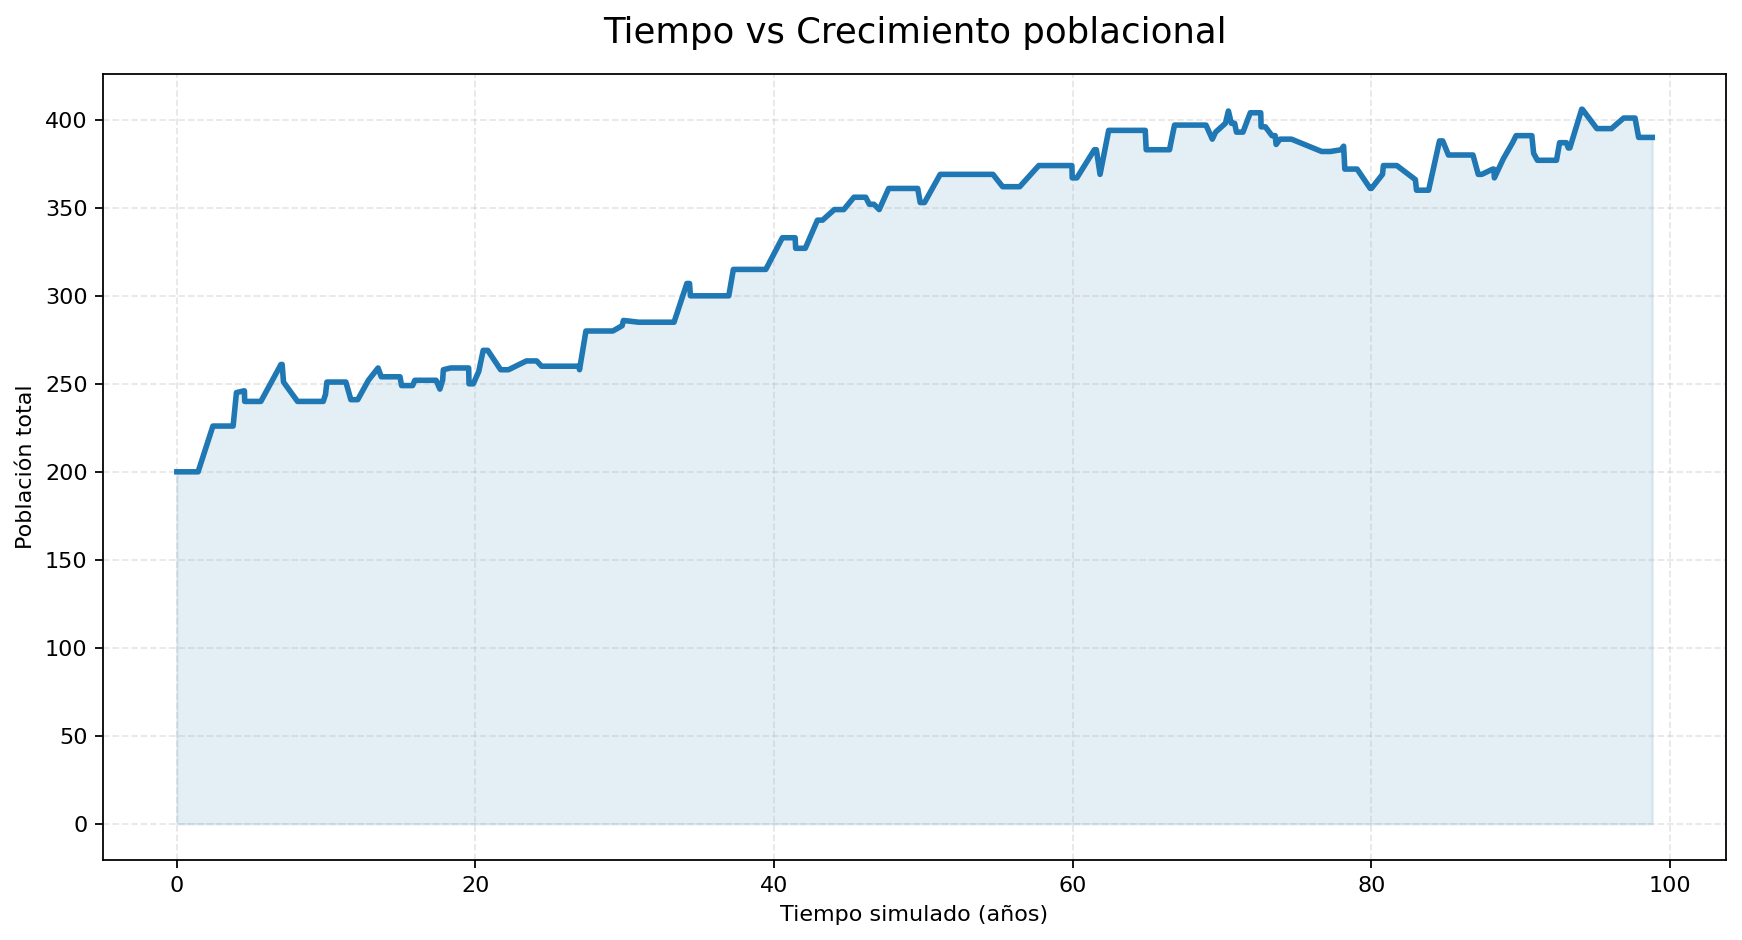
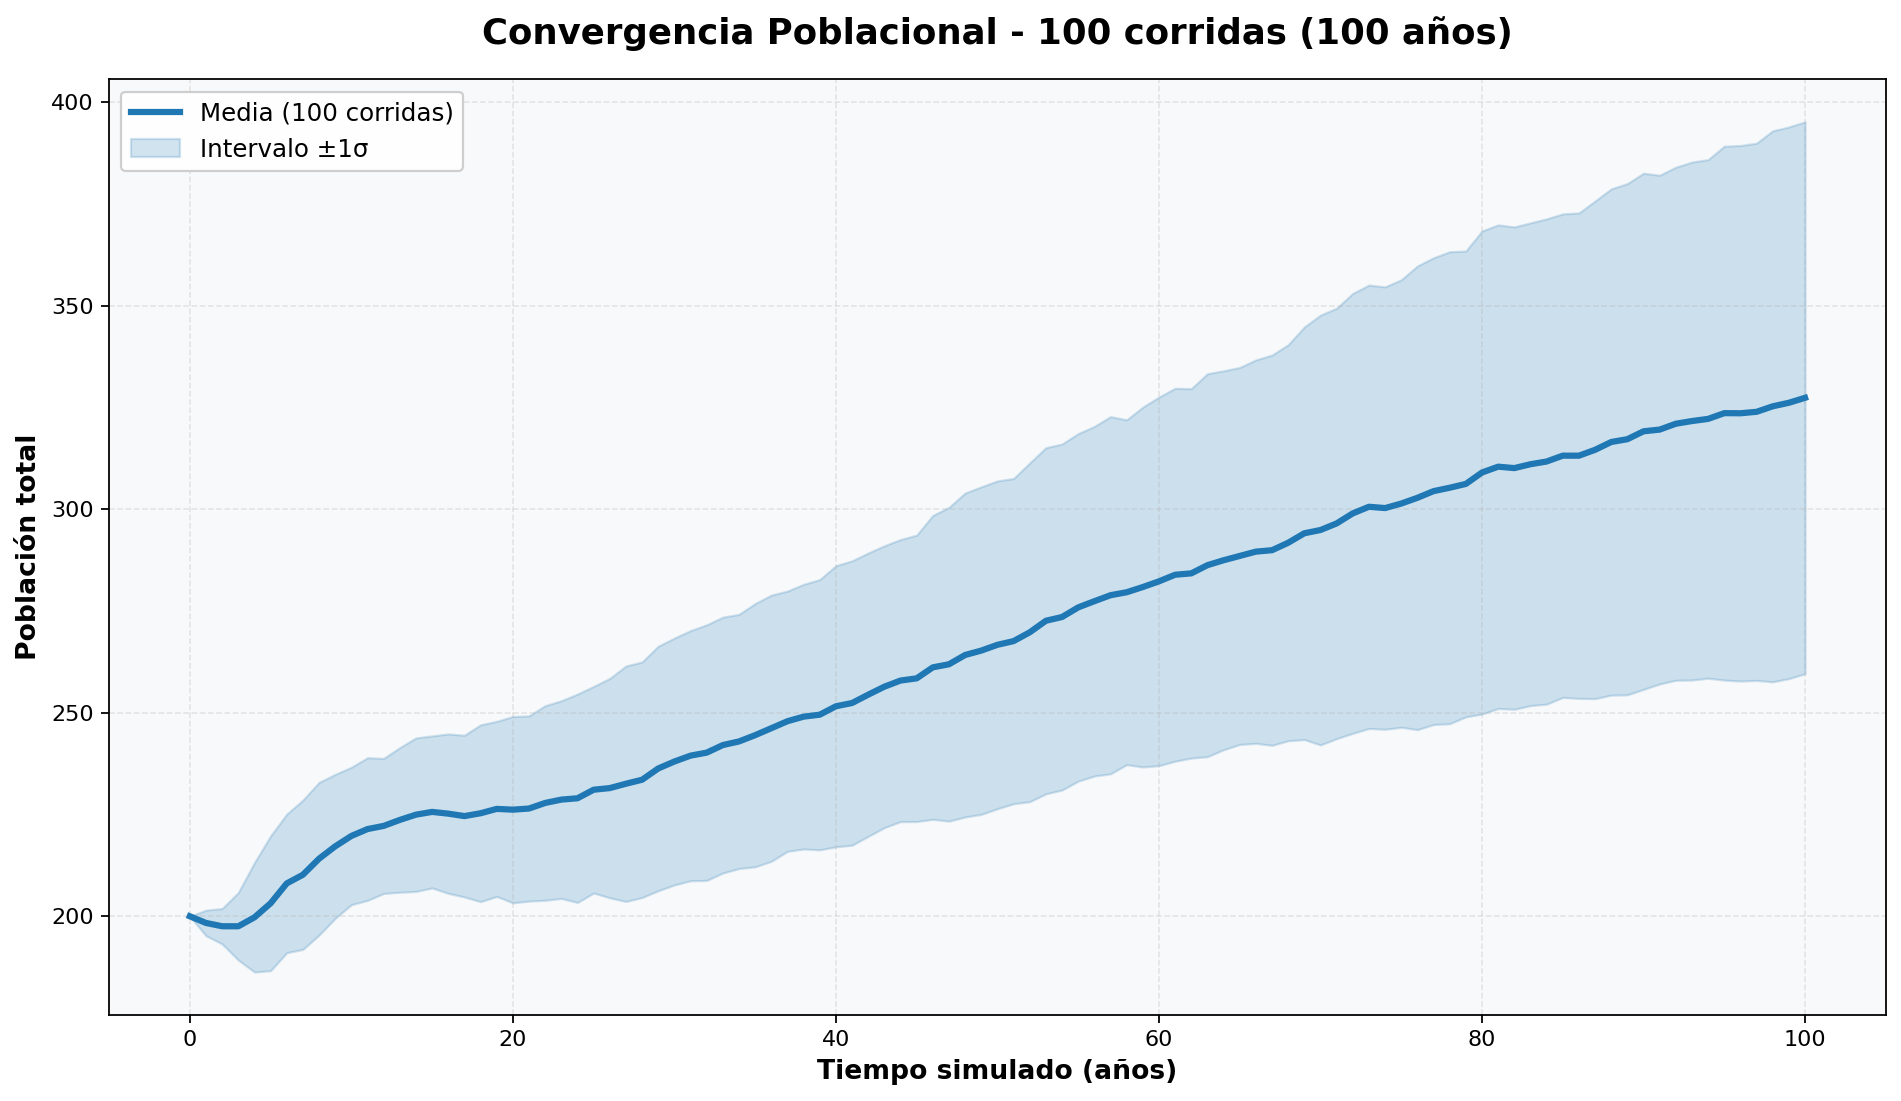
Enhance simulation functionality: add final population simulation method, update main function for chart generation, and improve output handling in statistics plotting.

diff --git a/scripts/statistics_plot.py b/scripts/statistics_plot.py
@@ -1,18 +1,30 @@
 """Generate a time vs population growth chart from the simulation."""
 
-from __future__ import annotations
-import argparse
-import sys
-from pathlib import Path
-import matplotlib.pyplot as plt
-
+from pathlib import Path  # filesystem paths
+import matplotlib.pyplot as plt  # chart rendering
+import statistics  # mean/stdev calculations
+from scripts.simulation import Simulador  # simulation engine
 
 ROOT_DIR = Path(__file__).resolve().parent.parent
-if str(ROOT_DIR) not in sys.path:
-    sys.path.insert(0, str(ROOT_DIR))
 
-from scripts.simulation import Simulador
+def resample_population(history: list[tuple[float, int]], years: int) -> tuple[list[int], list[int]]:
+    """Resample population history on a yearly grid using last-known values."""
+    # Build a yearly grid and carry forward the last known population.
+    timeline = list(range(0, years + 1))
+    if not history:
+        return timeline, [0] * len(timeline)
 
+    pops: list[int] = []
+    idx = 0
+    current_pop = history[0][1]
+    for year in timeline:
+        # Advance through history until we reach the current year.
+        while idx < len(history) and history[idx][0] <= year:
+            current_pop = history[idx][1]
+            idx += 1
+        pops.append(current_pop)
+
+    return timeline, pops
 
 def resolve_output_path(output: Path | None) -> Path | None:
     """Resolve relative output paths inside the repository results folder."""
@@ -22,60 +34,103 @@ def resolve_output_path(output: Path | None) -> Path | None:
     if output.is_absolute():
         return output
 
+    # Keep relative outputs inside results/.
     return ROOT_DIR / "results" / output.name
 
+def build_chart(
+    male_count: int,
+    female_count: int,
+    years: int,
+    output: Path | None,
+    runs: int = 1,
+    sigma: int = 1,
+    plot_all: bool = False,
+    show: bool = False,
+) -> None:
+    """Run the simulation multiple times and plot population statistics over time.
 
-def build_chart(male_count: int, female_count: int, years: int, output: Path | None) -> None:
-    """Run the simulation and plot population growth over time."""
-    simulation = Simulador(H=male_count, M=female_count)
-    history = simulation.run(years)
+    If `runs` == 1 the behaviour is identical to before. For `runs` > 1 the
+    function executes the simulation repeatedly, collects the population time
+    series, computes mean and standard deviation per year and plots either
+    the mean with ±sigma bands or all runs in grey + mean in red.
+    """
 
-    # history ahora es una lista de tuplas (tiempo, poblacion)
-    timeline = [t for t, _ in history]
-    population = [p for _, p in history]
+    if runs <= 1:
+        # Single run keeps the original event timeline.
+        simulation = Simulador(H=male_count, M=female_count)
+        history = simulation.run(years)
+        timeline = [t for t, _ in history]
+        population = [p for _, p in history]
 
-    fig, ax = plt.subplots(figsize=(11, 6))
-    ax.plot(timeline, population, color="#1f77b4", linewidth=2.5)
-    ax.fill_between(timeline, population, color="#1f77b4", alpha=0.12)
+        fig, ax = plt.subplots(figsize=(12, 7))
+        ax.plot(timeline, population, color="#1f77b4", linewidth=2.5, label="Población")
+        ax.fill_between(timeline, population, color="#1f77b4", alpha=0.12)
+    else:
+        all_populations: list[list[float]] = []
+        timeline = None
+        print(f"Ejecutando {runs} corridas de la simulación ({years} años cada una)...")
+        for i in range(runs):
+            print(f"  Corrida {i+1}/{runs}...", end="\r")
+            sim = Simulador(H=male_count, M=female_count)
+            history = sim.run(years)
+            if timeline is None:
+                # Resample to a shared yearly grid for comparison.
+                timeline, pops = resample_population(history, years)
+            else:
+                _, pops = resample_population(history, years)
+            all_populations.append(pops)
+        print(f"  Corrida {runs}/{runs}... ✓")
 
-    ax.set_title("Tiempo vs Crecimiento poblacional", fontsize=16, pad=14)
-    ax.set_xlabel("Tiempo simulado (años)")
-    ax.set_ylabel("Población total")
-    ax.grid(True, linestyle="--", alpha=0.3)
+        # Transpose to compute statistics per year.
+        per_year = list(zip(*all_populations))
+
+        means = [statistics.mean(col) for col in per_year]
+        stdevs = [statistics.pstdev(col) for col in per_year]
+
+        fig, ax = plt.subplots(figsize=(12, 7))
+
+        if plot_all:
+            # Plot each run in light gray for context.
+            for pops in all_populations:
+                ax.plot(timeline, pops, color="#777777", alpha=0.25, linewidth=0.8)
+            # Highlight the mean in red.
+            ax.plot(timeline, means, color="#d62728", linewidth=2.8, label=f"Media ({runs} corridas)", zorder=10)
+        else:
+            # Plot mean with sigma bands.
+            ax.plot(timeline, means, color="#1f77b4", linewidth=2.8, label=f"Media ({runs} corridas)")
+            lower = [m - sigma * s for m, s in zip(means, stdevs)]
+            upper = [m + sigma * s for m, s in zip(means, stdevs)]
+            ax.fill_between(
+                timeline,
+                lower,
+                upper,
+                color="#1f77b4",
+                alpha=0.2,
+                label=f"Intervalo ±{sigma}σ",
+            )
+
+        ax.legend(fontsize=11, loc="best", framealpha=0.95)
+
+    ax.set_title(
+        f"Convergencia Poblacional - {runs} {'corrida' if runs == 1 else 'corridas'} ({years} años)",
+        fontsize=16,
+        fontweight="bold",
+        pad=16,
+    )
+    ax.set_xlabel("Tiempo simulado (años)", fontsize=12, fontweight="bold")
+    ax.set_ylabel("Población total", fontsize=12, fontweight="bold")
+    ax.grid(True, linestyle="--", alpha=0.3, linewidth=0.7)
+    ax.set_facecolor("#f8f9fa")
 
     fig.tight_layout()
 
-    if output is None:
-        plt.show()
-    else:
+    if output is not None:
         output.parent.mkdir(parents=True, exist_ok=True)
-        fig.savefig(output, dpi=160, bbox_inches="tight")
-        print(f"Gráfica guardada en: {output}")
+        fig.savefig(output, dpi=160, bbox_inches="tight", facecolor="white")
+        print(f"✓ Gráfica guardada en: {output}")
+
+    if show or output is None:
+        plt.show()
 
 
-def parse_args() -> argparse.Namespace:
-    """Parse command-line arguments."""
-    parser = argparse.ArgumentParser(
-        description="Grafica el crecimiento poblacional en función del tiempo simulado."
-    )
-    parser.add_argument("--hombres", type=int, default=100, help="Cantidad inicial de hombres.")
-    parser.add_argument("--mujeres", type=int, default=100, help="Cantidad inicial de mujeres.")
-    parser.add_argument("--anios", type=int, default=100, help="Duración de la simulación en años.")
-    parser.add_argument(
-        "--output",
-        type=Path,
-        default=Path("results") / "population_growth.png",
-        help="Ruta del archivo PNG de salida. Usa una ruta vacía para mostrar la ventana.",
-    )
-    parser.add_argument(
-        "--show",
-        action="store_true",
-        help="Muestra la ventana del gráfico en lugar de guardarlo.",
-    )
-    return parser.parse_args()
 
-
-if __name__ == "__main__":
-    args = parse_args()
-    output_path = None if args.show else resolve_output_path(args.output)
-    build_chart(args.hombres, args.mujeres, args.anios, output_path)

diff --git a/main.py b/main.py
@@ -1,13 +1,33 @@
-"""Command-line entry point for running the population simulation."""
+"""Command-line entry point for running the population simulation charts."""
+
+from pathlib import Path
 
 from scripts.simulation import Simulador  # Main simulation engine.
+from scripts.statistics_plot import build_chart, resolve_output_path
+
+
+def simulate_final_population(h=100, m=100, anos=100):
+    """Run the simulation and return the final population count."""
+    sim = Simulador(H=h, M=m)
+    history = sim.run(anos)
+    return history[-1][1] if history else 0
+
+
+def main():
+    """Run the statistics plot flow with fixed parameters."""
+    output_path = resolve_output_path(Path("population_growth.png"))
+    build_chart(
+        male_count=100,
+        female_count=100,
+        years=100,
+        output=output_path,
+        runs=100,
+        sigma=1,
+        plot_all=False,
+        show=False,
+    )
 
 
 if __name__ == "__main__":
+    main()
 
-    sim = Simulador(H=100, M=100)
-    history = sim.run(100)
-
-    # history es ahora [(tiempo, poblacion)], extraer la poblacion final
-    final_time, final_pop = history[-1]
-    print("Población final:", history[-1][1])